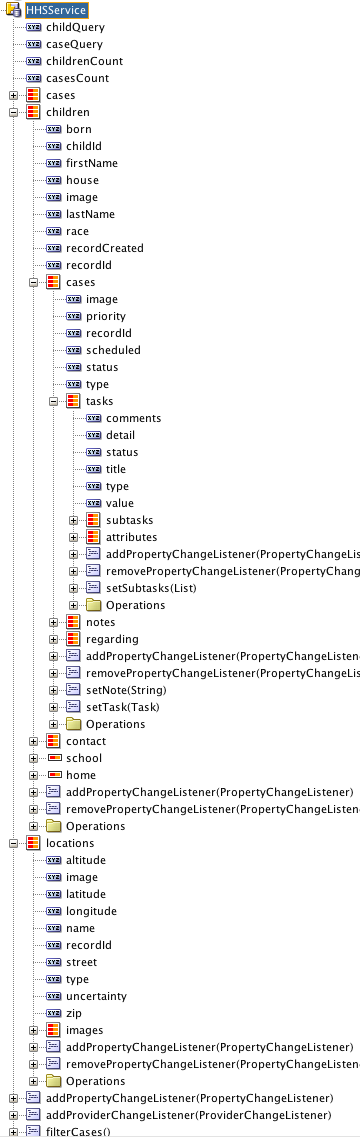
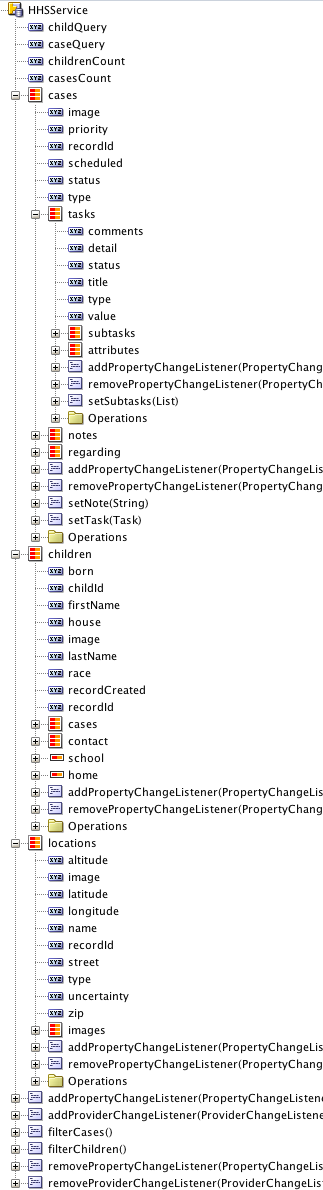
...left some accessors out

Changed region(s): [[0.0, 0.0, 1.0, 1.0]]

diff --git a/WorkBetter/ViewController/src/mobile/Child.java b/WorkBetter/ViewController/src/mobile/Child.java
@@ -16,6 +16,7 @@ public class Child {
     private String lastName;
     private String birthState;
     private Date born;
+    private String gender;
     private String race;
     
     // "focus for group loyalty"
@@ -179,7 +180,27 @@ public class Child {
     public String getRecordId() {
         return recordId;
     }
-    
+
+    public void setBirthState(String birthState) {
+        String oldBirthState = this.birthState;
+        this.birthState = birthState;
+        propertyChangeSupport.firePropertyChange("birthState", oldBirthState, birthState);
+    }
+
+    public String getBirthState() {
+        return birthState;
+    }
+
+    public void setGender(String gender) {
+        String oldGender = this.gender;
+        this.gender = gender;
+        propertyChangeSupport.firePropertyChange("gender", oldGender, gender);
+    }
+
+    public String getGender() {
+        return gender;
+    }
+
     public void addPropertyChangeListener(PropertyChangeListener l) {
         propertyChangeSupport.addPropertyChangeListener(l);
     }
